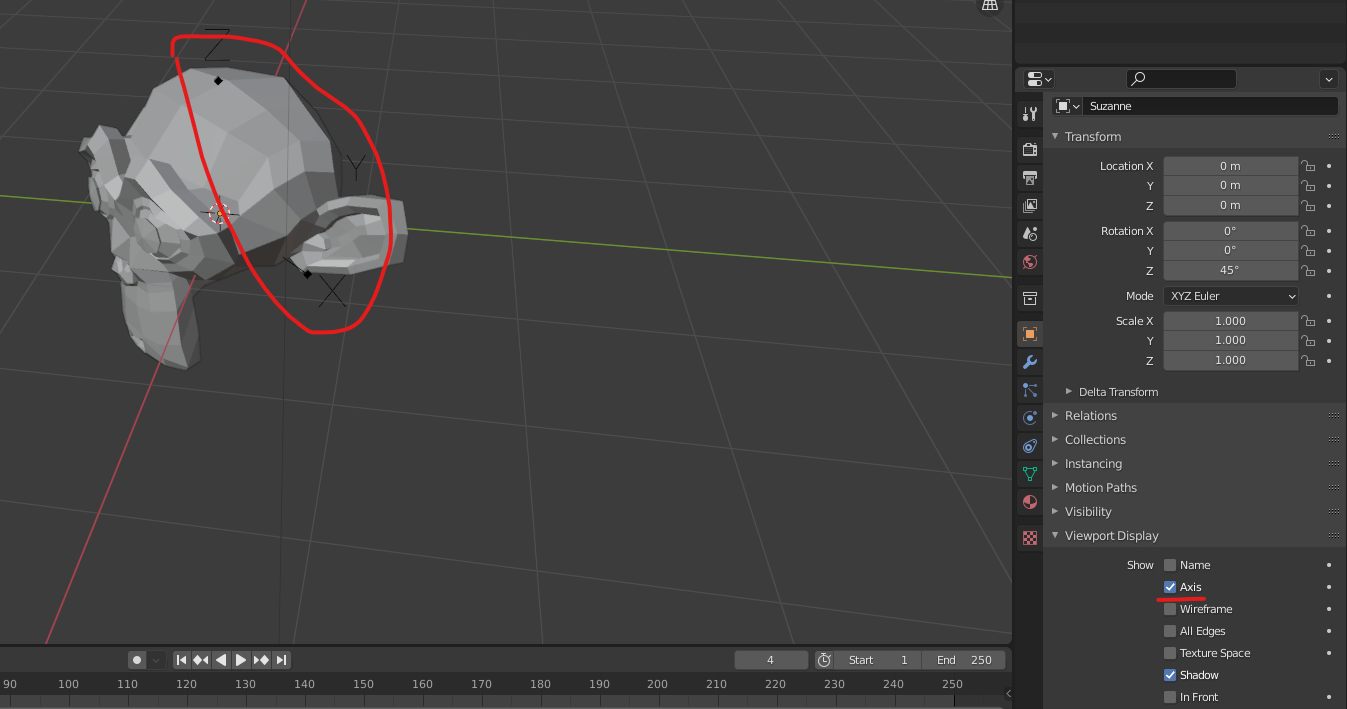
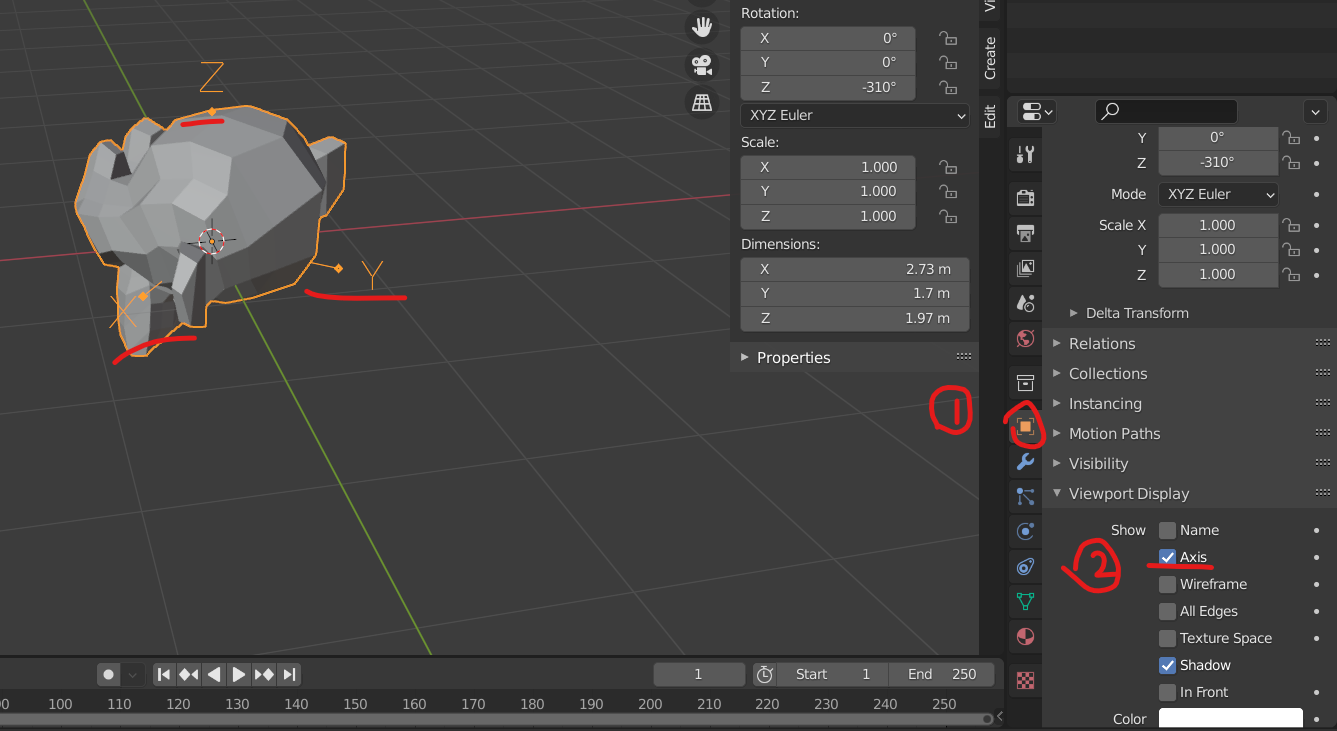
blender: some minor fix

diff --git a/source/_posts/zh-cn/computer/blender.md b/source/_posts/zh-cn/computer/blender.md
@@ -18,8 +18,8 @@ tags:
 2. 启用模拟三键鼠标(`Alt+鼠标左键` 旋转视角, 类似 MAYA 的操作): {% asset_img 1-2.png %}
    但是注意开启之后会导致选择循环边快捷键变成双击选择, 建议适应鼠标中键旋转视角(这样的优势在于一只手就能旋转视觉了)
 3. 启用围绕选择物体旋转和自动深度(解决视角无法继续推近的问题) {% asset_img 1-3.png %}
-4. 启用自动加载 Python 脚本 {% asset_img 1-4.png %}
-   一些插件需要开启, 不然可能会报错
+4. 启用自动加载 Python 脚本(一些插件需要开启, 不然可能会报错)
+   {% asset_img 1-4.png %}   
 5. 启用插件:
    Node: Node Wrangler (强大的节点工具)
    Rigging: Rigify (自带的强大绑骨软件)
@@ -57,7 +57,7 @@ tags:
       * 如何更改摄像机取景框的比例和大小?
         &#10112; 见图:
         
-        {% asset_img 2-3.png %}
+        {% asset_img 2-4.png %}
         &#10113; 在关闭锁定相机到视图的情况下, 在相机视图下直接使用鼠标滚轮和视角平移操作就可以改变相机取景框在屏幕上的大小和位置
       * 我找到了一个不错的角度, 如何将当前的视角快速变为摄像机视图?
         场景集合列表(Scene Collection)中选中相机物体, 然后 `Ctrl+Alt+小键盘0`
@@ -73,7 +73,7 @@ tags:
 2. 调整物体
    * 开启移动, 旋转, 调整工具的实时显示:
      {% asset_img 2-5.png %}
-     Gizmo 可通过 ``Ctrl+` `` 来快速开关
+     > Gizmo 可通过 ``Ctrl+` `` 来快速开关
    * 移动物体: 快捷键 `G`, 此时按 `X`、`Y`、`Z` 可使其在对应的轴上移动, 输入数字可以进行精确移动.
      若要在对应的平面上移动, 可按 `Shift+垂直轴的字母`, 如 `Shift+Z` 为在 `X-Y` 平面内移动
      位置归零: `Alt+G`
@@ -88,42 +88,41 @@ tags:
 3. 选择物体
    按 `W` 切换选择工具, 共有四种, 分别为选择移动工具、框选工具、刷选工具、套索选择工具
    还可以设置对应工具的属性(如交集选择)
-   {% asset_img 2-6.png %}
+   {% asset_img 2-7.png %}
 
    按 `A` 键全选, 再次按 `A` 或 `Alt+A` 取消全选
 4. 新建物体
-   物体添加-`Shift+A`, 注意物品添加时部分支持使用新建参数, 但这个参数仅在新建时才有效
+   物体添加: `Shift+A`, 注意物品添加时部分支持使用新建参数, 但这个参数仅在新建时才有效
 5. 删除物体
    两种方法: `Delete` 键删除或按 `X` 删除
 
 ## 坐标系与轴心点
 
 1. 物体变换坐标系: 快捷键 `,`
-   * **局部坐标系**为基于物体本身方向的坐标系
+   * 局部(Local)坐标系: 基于物体本身方向的坐标系
      可在对象属性下的视图显示里开启局部坐标轴显示:
      {% asset_img 3-1.png %}
 
-     进入变换模式, 二次点击轴字母即可快速切换全局/局部坐标系.
-     可以在编辑器的顶栏设置默认使用的坐标系:
-     {% asset_img 3-2.png %}
- 
+     > * 进入变换模式, 二次点击轴字母即可快速切换全局/局部坐标系.
+     > * 可以在编辑器的顶栏设置默认使用的坐标系:
+     >   
+     >   {% asset_img 3-2.png %}
    * 法向(Normal)坐标系
      切换到法向模式, 进入编辑模式中的面选择模式, 点击一个平面, 可以看到Z轴和这个平面平行
-     (按 `Tab` 进入编辑模式, 此时按 `1`、`2`、`3` 进入点、线、面选择模式)
+     (按 `Tab` 进入编辑模式, 此时按 `1`、`2`、`3` 进入点、线、面选择模式, 注意要使用这个快捷键需关闭**模拟数字键盘**)
      {% asset_img 3-3.png %}
-
-     同样的, 进入变换模式后, 二次点击轴字母即可快速切换到全局坐标系
+     > 同样的, 进入变换模式后, 二次点击轴字母即可快速切换到全局坐标系
    * 万向(Gimbal)坐标系
      对于万向轴来说, 它可通过固定两个轴(旋转轴和转向轴)的方式让第三个绕旋转轴旋转,
      如让某个圆球的万向轴设置为旋转轴是它的的局部X轴, 转向轴为它的局部Z轴,
-     可在物体属性的变换下选择模式为 "YXZ Eular" (第二个为旋转轴, 第三个为转向轴):
-     此时当我们尝试将物体绕着X轴旋转, Y轴会发生变化, 但无论如何旋转, 万向坐标系的Z轴永远保持全局坐标Z轴一个方向, 且万向Z轴与X轴始终保持正交
+     可在 Object Properties->Transform 选择 Mode 为 "YXZ Eular" (第二个字母为旋转轴, 第三个字母为转向轴):
+     此时当我们尝试将物体绕着X轴旋转, Y轴会发生变化, 但无论如何旋转, 万向坐标系的Z轴永远保持和全局坐标Z轴一个方向, 且万向Z轴与X轴始终保持正交
      {% asset_img 3-4.png %}
-   * 视图坐标系
+   * 视图(View)坐标系
      坐标轴XY与视窗锁定, 上下为Y, 左右为X, 垂直平面为Z
    * 创建坐标系功能
      使场景中所有的物体的坐标系为某个物体的局部坐标系
-     (复制物体の两种方法: 选中物体, `Ctrl+C` + `Ctrl+V` 或 `Shift+V`)
+     (复制物体の两种方法: 选中物体, `Ctrl+C` + `Ctrl+V` 或 `Shift+D`)
      选中某个物体, 点击变换坐标系菜单的"+"号:
      {% asset_img 3-5-1.png %}
      
@@ -134,7 +133,7 @@ tags:
      {% asset_img 3-6.png %}
 2. 物体变换轴心点
    物体中键的橘黄色的小点称为原点, 可在编辑器右上角的选项中启用仅影响原点来对原点进行变换操作:
-   {% asset_img 3-7.png %}
+   {% asset_img 3-7.jpg %}
    移动了原点后, 可通过右键菜单中的设置原点子菜单恢复原点位置:
    (分别是几何中心到原点, 原点到几何中心, 原点到3D游标, 原点到质心(表面), 原点到质心(体积))
    {% asset_img 3-8.png %}

diff --git a/source/about/index.md b/source/about/index.md
@@ -18,18 +18,10 @@ date: 2020-02-08 15:14:28
 是个笨蛋, 带专生, 垃圾学校, 垃圾专业. 因此, 请多指教.
 目前受到{% post_link tricks-of-heart 性别焦虑 %}的影响, 属于 <font color=#5BCFFA>M</font>t<font color=#F5ABB9>F</font> 群体, Ta 们只是有点特别罢了, Ta 们中的多数都有着不同程度的心理创伤, 生活中要是见到要好好对待 Ta 们哦.
 
-行为准则: 只要活着就行...
-
-> **褐矮星**
-> 有意义地活着真是痛苦, 但我还是决定.
-> 宁愿在奔波中结束一生, 也不愿窝囊地浪费生命...
-> SRS 不是我追求的, HRT 是也不是必要的, 可爱的外貌亦非我本愿.
-> 一切缓解措施只是想让自己不要再荒废下去, 我很痛苦, 大家都很痛苦, 要试着去改变这一切.
-> 即使这种选择不被周围人认可, 没有华丽的鼓掌, 也要迎接黑暗, 执剑守护在意之人.
-> 后人如果能在前人创造的基础上尽力发挥自己的能力, 改善生活水平, 甚至能够对不幸的人施以援手, 那可谓没有遗憾.
-> 就是这样, 我要开始去做那些我十分不喜欢但为了理想又永远绕不开的事情了, 希望您能提醒我, 不要忘了这个初衷.
-> 提醒一下, 对于钱桑你来说, 好好睡觉也是很重要的事情哦.
-> 想要循着大佬的步伐, 去提升自己的能力, 然后跟随自己的心意, 去帮助被抛弃之人.
+***我向往自由, 我呼唤自由, 我为自由而祈祷, 但我的祈祷
+似乎在轻拂的微风中破碎了, 我放弃了祈祷, 构想了一个较为卑微的请
+求. 我要请求的是变化, 是鞭策. 那个请求也仿佛在虚无的空中飘散.
+"那么, " 我近乎绝望地呼喊着, "至少赐予我一份新的苦役吧!"*** -- Jane Eyre
 
 Feel free to contact me:
 - Email: lollipop.studio.cn@gmail.com
